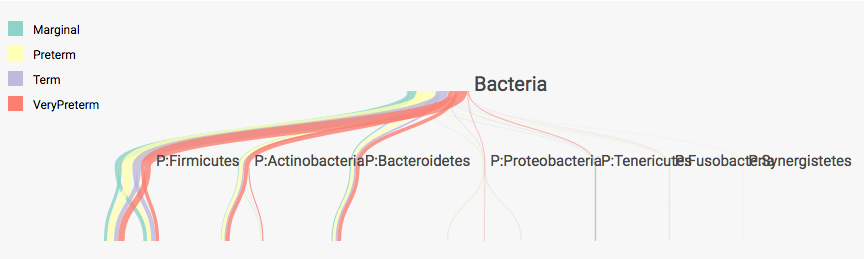
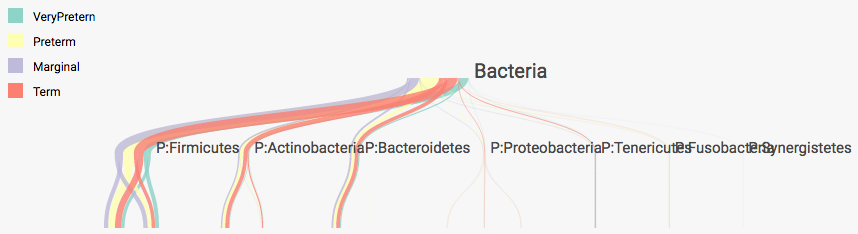
Update figure legend order (pregnancy)
Also, add weiland fellowship.

diff --git a/treelapse.tex b/treelapse.tex
@@ -30,7 +30,7 @@
 {
   \title{\bf Interactive Visualization of Hierarchically Structured Data}
   \author{Kris Sankaran\thanks{
-      This research was supported in part by an NIH training grant (5T32GM096982-03).}\hspace{.2cm}\\
+      This research was supported in part by an NIH training grant (5T32GM096982-03) and a Weiland Fellowship.}\hspace{.2cm}\\
     Department of Statistics, Stanford University\\
     and \\
     Susan Holmes\thanks{
@@ -511,9 +511,9 @@ diversity. Further, focusing on the Lactobacillaceae family, we note
 that the differential abundance of these bacteria distinguishes the
 remaining CSTs, see Figure \ref{fig:pretermcstslacto}.
 
-Alternatively, in Figure \ref{fig:pretermcsts}, we avoid working with
+Alternatively, in Figure \ref{fig:pretermpreterm}, we avoid working with
 CSTs, displaying instead averages among samples associated with either
-preterm or term births. The green edges are associated with preterm
+preterm or term births. The red edges are associated with preterm
 births -- we see that they contribute more weight to phyla outside the
 Firmicutes. This is consistent with the claim that CST 4, the most
 diverse of the CSTs, is associated with preterm births.
